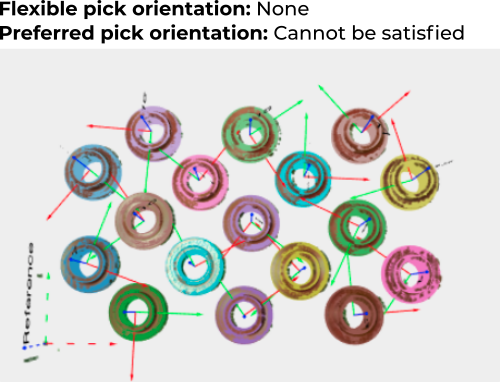
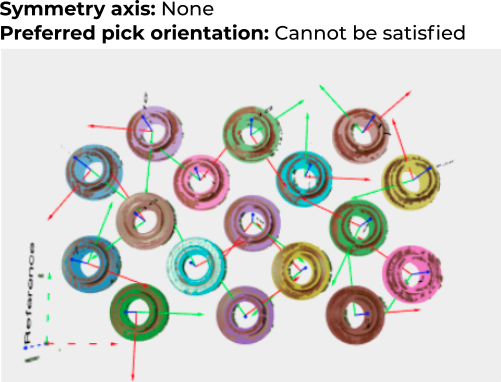
Update preferred pick orientation for 2.4

diff --git a/docs/documentation/picking/preferred-orientation-teach.rst b/docs/documentation/picking/preferred-orientation-teach.rst
@@ -3,18 +3,18 @@
 Preferred pick point orientation in Pickit Teach
 ================================================
 
-When a Pickit Teach model has :ref:`multiple pick points <multiple-pick-points>`, optionally with :ref:`flexible pick orientation <flexible-pick-orientation>`, there can be some freedom in how the pick point is oriented.
-The **preferred pick point orientation** allows to choose a pick point with an axis that aligns as close as possible to one of the :ref:`reference frame <reference-frame>` axes.
+When a Pickit Teach model has :ref:`multiple pick points <multiple-pick-points>`, a :ref:`symmetry axis <pick-point-symmetry-axis>` or a tool with :ref:`flexible pick orientation <flexible-pick-orientation>`, there can be some freedom in how the pick point is oriented.
+The **preferred pick point orientation** allows to point a pick point axis as close as possible to one of the :ref:`reference frame <reference-frame>` axes, or a feature point like the reference frame origin or :ref:`ROI <region-of-interest>` center.
 
-Consider the following example. The part in the image below has a single pick point with no flexible pick orientation, hence has no freedom to reorient the pick point.
+Consider the following example. The part in the image below has a single pick point without :ref:`symmetry axis <pick-point-symmetry-axis>`, hence has no freedom to reorient the pick point.
 As a consequence, pick points are randomly oriented with respect to the reference frame (lower left, dashed axes).
 
 .. image:: /assets/images/documentation/picking/preferred_orientation_rigid.png
     :scale: 70%
     :align: center
 
-Because the part has circular symmetry, a flexible pick orientation that represents it can be added; that is, allow the pick point to fully rotate about the object's Z-axis.
-It can be seen below that this flexibility is now exploited to fully align the objects with the requested reference frame axis.
+Because the part has circular symmetry, a :ref:`symmetry axis <pick-point-symmetry-axis>` can be defined to allow the pick point to fully rotate about it.
+It can be seen below how the symmetry is now exploited to fully align the objects with the requested reference frame axis.
 
 .. image:: /assets/images/documentation/picking/preferred_orientation_full.png
     :align: center
